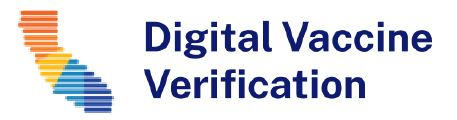
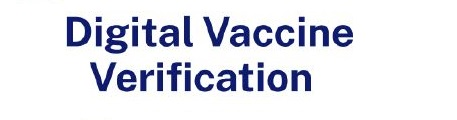
Updated images to be generic or non-Branded

Changed region(s): [[0.0306, 0.075, 0.9497, 0.95], [0.8271, 0.175, 0.8578, 0.225]]

diff --git a/src/components/Footer.js b/src/components/Footer.js
@@ -12,11 +12,11 @@ const Footer = () => {
         <footer style={{ padding: '20px 0', backgroundColor: '#F9F9F9' }}>
             <div className='footerContainer' style={{ position: 'relative' }}>
                 <ul style={{ paddingLeft: '0' }} className="footerLinks">
-                    <li><img src="/imgs/cagovlogo.png" height='25px' width='40px' alt="CA.gov Footer Logo" /></li>
+                    <li><img src="/imgs/govlogo.png" height='25px' width='40px' alt="WA.gov Footer Logo" /></li>
                     <li>
                         <ReactGA.OutboundLink
                             eventLabel="ca_gov"
-                            to={'https://www.ca.gov/'}
+                            to={'https://www.wa.gov/'}
                             target="_blank"
                         >
                             <Trans i18nKey="footer.home">CA.gov home</Trans>
@@ -26,7 +26,7 @@ const Footer = () => {
                     <li>
                         <ReactGA.OutboundLink
                             eventLabel="ca_gov_use"
-                            to={'https://www.ca.gov/use'}
+                            to={'https://www.wa.gov/use'}
                             target="_blank"
                         >
                             <Trans i18nKey="footer.conditionsofuse">Conditions of Use</Trans>

diff --git a/src/components/Header.js b/src/components/Header.js
@@ -52,7 +52,7 @@ const Header = () => {
           <div className="subheaderContainer">
             <div style={{ display: 'flex', flexWrap: 'wrap', justifyContent: 'space-between' }}>
               <div style={{ display: 'flex', alignItems: 'center' }} aria-label="State of California">
-                <img src="/imgs/cagovlogo.png" alt="CA.Gov Logo" height="20px" width='50px' style={{ paddingRight: '20px' }} />
+                <img src="/imgs/govlogo.png" alt="CA.Gov Logo" height="20px" width='50px' style={{ paddingRight: '20px' }} />
                 <span style={{ verticalAlign: 'middle' }}>State of California</span>
               </div>
               <div className="translationContainer" aria-label="languages" style={{ display: 'flex', alignItems: 'center' }}>
@@ -91,7 +91,7 @@ const Header = () => {
                 alt={"CDT Logo"}
                 width="58px"
                 height='62px'
-                src="/imgs/cagovlogov2.png"
+                src="/imgs/govlogov2.png"
               />
               <span className='logoDescription' style={{ fontSize: '18px', display: 'inline-block', paddingLeft: '17px', color: '#22489c' }}>Digital COVID-19 <br /> Vaccine Record</span>
             </Link>

diff --git a/public/index.html b/public/index.html
@@ -11,7 +11,7 @@
   <link href="https://fonts.googleapis.com/css2?family=Public+Sans&display=swap" rel="stylesheet">
   <!-- <link rel="stylesheet" href="https://fonts.googleapis.com/css?family=Roboto:300,400,500,700&display=swap" />
   <link rel="stylesheet" href="https://fonts.googleapis.com/icon?family=Material+Icons" /> -->
-  <link rel="apple-touch-icon" href="%PUBLIC_URL%/cagovlogov2.png" />
+  <link rel="apple-touch-icon" href="%PUBLIC_URL%/govlogov2.png" />
   <link href="https://cdn.jsdelivr.net/npm/bootstrap@5.0.1/dist/css/bootstrap.min.css" rel="stylesheet"
     integrity="sha384-+0n0xVW2eSR5OomGNYDnhzAbDsOXxcvSN1TPprVMTNDbiYZCxYbOOl7+AMvyTG2x" crossorigin="anonymous">
   <script src="https://cdn.jsdelivr.net/npm/bootstrap@5.0.1/dist/js/bootstrap.bundle.min.js"

diff --git a/maintenancepage.html b/maintenancepage.html
@@ -43,7 +43,7 @@
                         alt="CDT Logo"
                         width="58px"
                         height='62px'
-                        src="https://myvaccinerecord.cdph.ca.gov/imgs/cagovlogov2.png"
+                        src="~/imgs/govlogov2.png"
                       />
                       <span class='logoDescription' style="font-size: 18px; display: inline-block; padding-left: 17px; color: #22489c; vertical-align: super; font-weight: 700; line-height: 1.3em; text-align: left;">Digital COVID-19 <br /> Vaccine Record</span>
                   </div>

diff --git a/src/components/QRData.js b/src/components/QRData.js
@@ -104,8 +104,8 @@ const QRData = ({ user, qr, apple, google, isMobile }) => {
       <div className={'qr-flex'} style={{ display: "flex", flexWrap: "wrap" }} id={'data-for-image'}>
         <div className="qrDiv" id="qr_img">
           <div className="qrImg" >
-            <img alt={"ca gov logo"} width="45px" src="/imgs/cagovlogo.png" />
-            State of California
+            <img alt={"gov logo"} width="45px" src="/imgs/govlogo.png" />
+            State of Washington
           </div>
           <img
             className={'actual-qr-img'}

diff --git a/README.md b/README.md
@@ -67,7 +67,7 @@ Welcome to the State of California's Digital COVID-19 Vaccine Record (DCVR). The
 3.	Use the command npm run start to start the application.
 ________________________________________
 
-![Digital Vaccine Record QR Code Example](/public/imgs/docs/sample-qr.png "Digital Vaccine Record QR Code Example")
+![Digital Vaccine Record QR Code Example](/public/imgs/docs/sample-qr_generic.png "Digital Vaccine Record QR Code Example")
 
 # Configuration
 The URLs found in public/config.js will need to be updated to point to the API that you intend to call to retrieve vaccination data.
